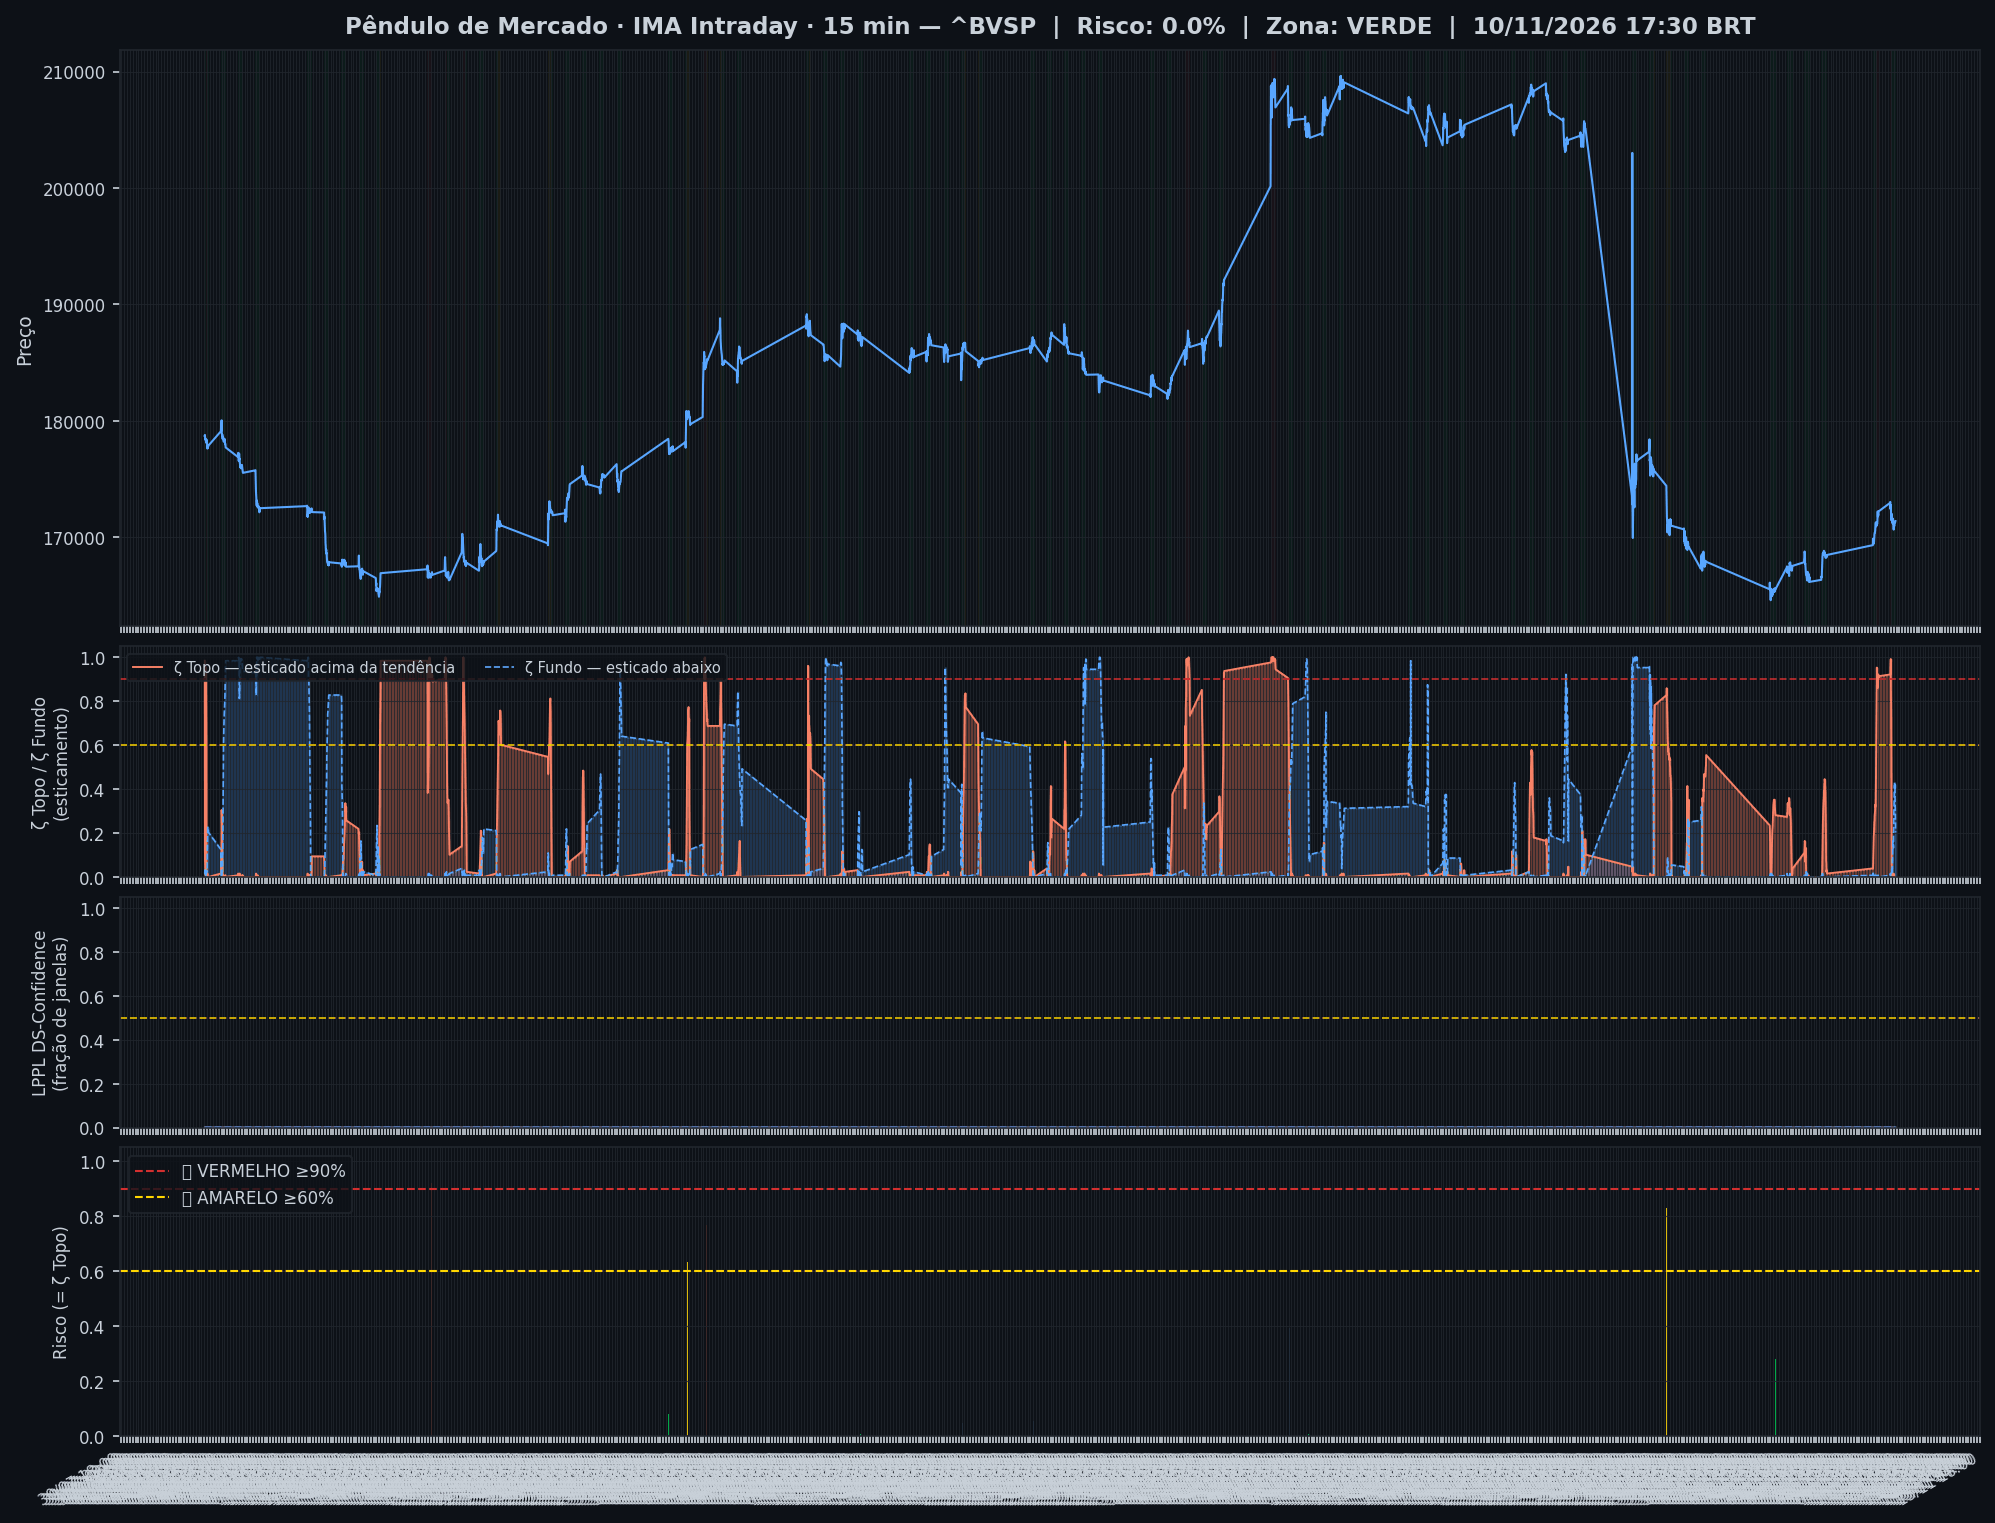
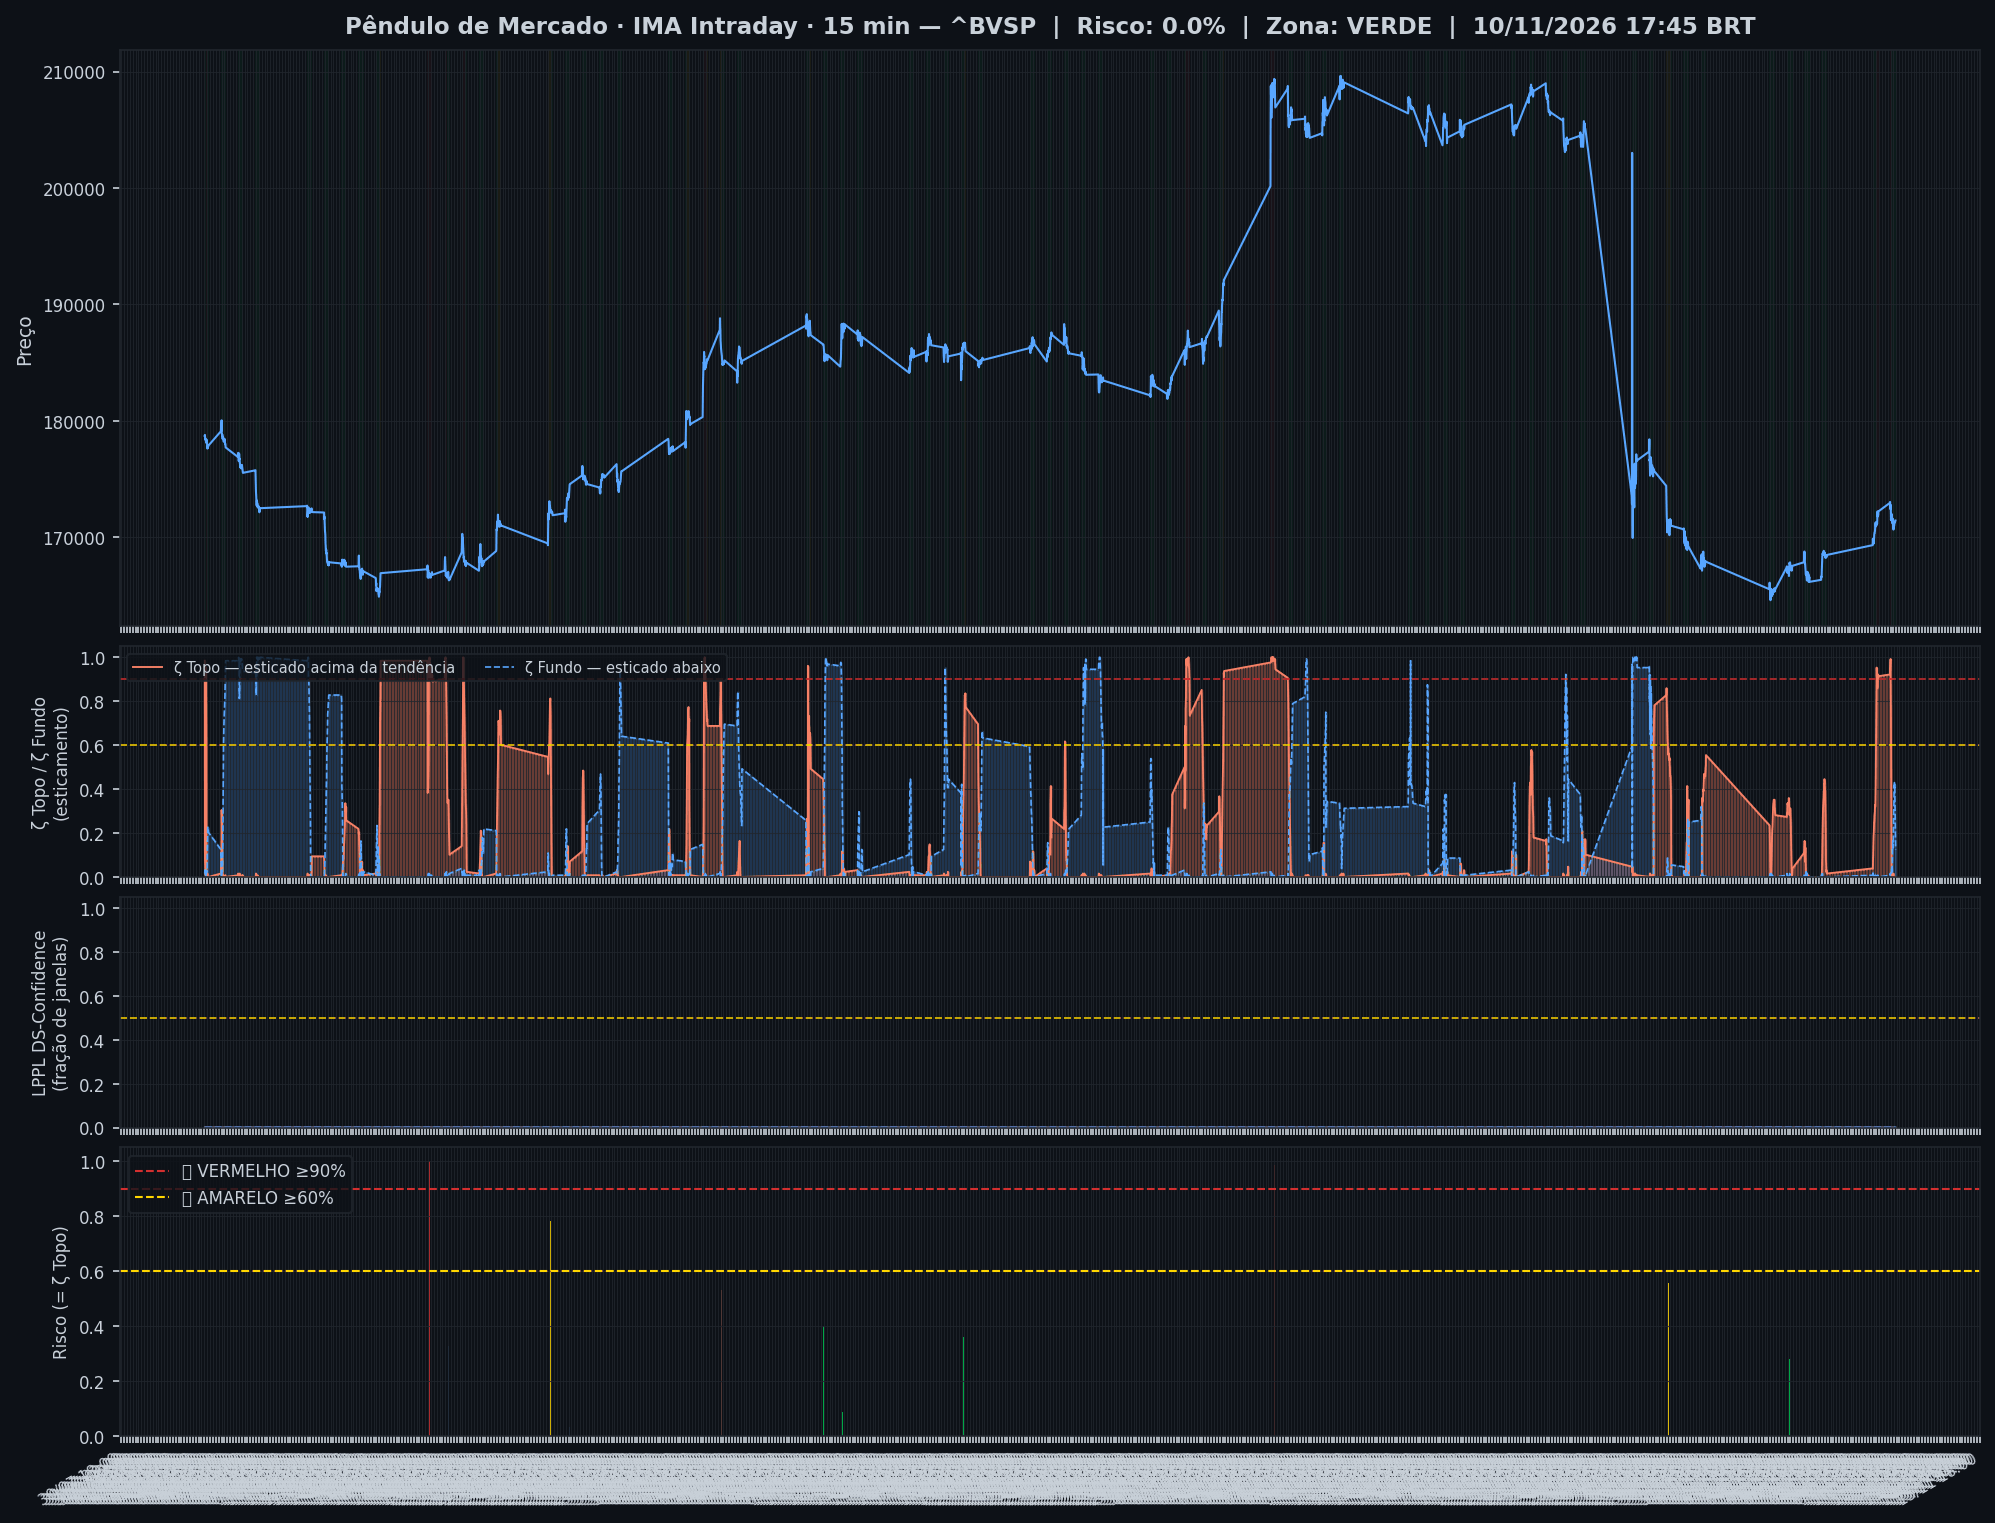
🤖 Auto: Sinal 10/11/2026 18:01

Changed region(s): [[0.7769, 0.4629, 0.8702, 0.5863], [0.9323, 0.5246, 0.9634, 0.5555]]

diff --git a/content/intraday/2026-11-10.md b/content/intraday/2026-11-10.md
@@ -1,11 +1,11 @@
 ---
-title: "🟢 Intraday 10/11/2026 17:30 BRT — VERDE"
+title: "🟢 Intraday 10/11/2026 17:45 BRT — VERDE"
 date: 2026-11-10
 tags: [intraday]
 ---
 
-> [!success] Onde o mercado está agora (10/11 17:30, candles de 15 min): **🟢 Calmo**
-> `Pânico ◀────────●────────────▶ Euforia`
+> [!success] Onde o mercado está agora (10/11 17:45, candles de 15 min): **🟢 Calmo**
+> `Pânico ◀─────────●───────────▶ Euforia`
 >
 > O Ibovespa está dentro da sua faixa normal, sem excesso para cima nem para baixo.
 > No gráfico diário: 🔪 Queda forte em curso.
@@ -20,7 +20,7 @@ tags: [intraday]
 > | 📍 **Sinais** | hoje: nenhum sinal | [abrir](sinais-topo-fundo/) |
 > | 🧪 **Placar ao vivo** | 1 operação(ões), 0 com lucro, soma -0,8% | [abrir](operacoes/) |
 
-> [!success] IMA Intraday · 15 min (10/11 17:30): 🟢 **VERDE** — Risco 0% · ＝ +0 p.p. vs leitura anterior
+> [!success] IMA Intraday · 15 min (10/11 17:45): 🟢 **VERDE** — Risco 0% · ＝ +0 p.p. vs leitura anterior
 > `░░░░░░░░░░░░░░░░░░░░`
 > Preço na faixa normal em torno da tendência.
 
@@ -32,13 +32,13 @@ tags: [intraday]
 >
 > *Leitura educacional baseada em 26 anos de dados, não recomendação. [Como usar](../metodologia/crise#3-como-usar-na-prática).*
 
-| Indicador — IMA Intraday · 15 min (10/11 17:30) | Valor |
+| Indicador — IMA Intraday · 15 min (10/11 17:45) | Valor |
 |---|---|
 | 🔴 ζ Topo — preço esticado acima da tendência | **0%** |
-| 🔵 ζ Fundo — preço esticado abaixo da tendência | 20% |
+| 🔵 ζ Fundo — preço esticado abaixo da tendência | 12% |
 | 🫧 LPPL bolha — alta super-exponencial (risco de crash) | 0% |
 | 🫧 LPPL antibolha — queda super-exponencial (risco de repique) | 0% |
-| 📊 Ibovespa | 171.405 pts |
+| 📊 Ibovespa | 171.454 pts |
 
 ![Gráfico do sinal](../graficos/sinal_intraday.png)
 
@@ -46,6 +46,7 @@ tags: [intraday]
 
 | Data | Zona | Evento | Risco | ζ Topo | ζ Fundo | LPPL |
 |---|---|---|---|---|---|---|
+| 2026-11-10 17:45 | 🟢 VERDE |  | **0%** | 0% | 12% | 0% |
 | 2026-11-10 17:30 | 🟢 VERDE |  | **0%** | 0% | 20% | 0% |
 | 2026-11-10 17:15 | 🟢 VERDE |  | **0%** | 0% | 25% | 0% |
 | 2026-11-10 17:00 | 🟢 VERDE |  | **0%** | 0% | 30% | 0% |
@@ -75,7 +76,6 @@ tags: [intraday]
 | 2026-11-10 11:00 | 🔴 VERMELHO |  | 🟡 **88%** | 🟡 **88%** | 0% | 0% |
 | 2026-11-10 10:45 | 🔴 VERMELHO |  | 🔴 **99%** | 🔴 **99%** | 0% | 0% |
 | 2026-11-10 10:30 | 🔴 VERMELHO |  | 🔴 **98%** | 🔴 **98%** | 1% | 0% |
-| 2026-11-10 10:15 | 🔴 VERMELHO |  | 🔴 **96%** | 🔴 **96%** | 2% | 0% |
 
 <small>Destaques: 🟡 ≥ 60% · 🔴 ≥ 90% (Risco e ζ Topo) · 🔵 ≥ 60% · 🔪 ≥ 90% (ζ Fundo) · 🫧 ≥ 30% · 🫧🔴 ≥ 50% (LPPL)</small>
 
@@ -89,36 +89,36 @@ tags: [intraday]
 | Zona | Ativo | Setor | ζ Topo | ζ Fundo |
 |---|---|---|---|---|
 | 🔴 | **EMBRAER** | Outros | 🟡 **84.4%** | 0.0% |
-| 🟢 | **WEG** | Industrial | 45.3% | 0.0% |
-| 🟢 | **AMBEV S/A** | Consumo | 0.0% | 43.8% |
-| 🟢 | **SUZANO S.A.** | Papel/Celulose | 0.0% | 37.5% |
-| 🟢 | **PETROBRAS** | Petróleo | 30.5% | 0.0% |
-| 🟢 | **GERDAU** | Siderurgia | 28.1% | 0.0% |
-| 🟢 | **PRIO** | Petróleo | 20.3% | 0.0% |
-| 🟢 | **ITAUSA** | Financeiro | 0.0% | 18.8% |
-| 🟢 | **BRADESCO** | Financeiro | 0.0% | 18.0% |
-| 🟢 | **B3** | Financeiro | 0.0% | 18.0% |
-| 🟢 | **BRASIL** | Financeiro | 16.4% | 0.0% |
-| 🟢 | **EQUATORIAL** | Energia | 0.0% | 10.9% |
-| 🟢 | **PETROBRAS** | Petróleo | 10.2% | 0.0% |
+| 🟢 | **WEG** | Industrial | 46.1% | 0.0% |
+| 🟢 | **AMBEV S/A** | Consumo | 0.0% | 40.6% |
+| 🟢 | **SUZANO S.A.** | Papel/Celulose | 0.0% | 32.8% |
+| 🟢 | **PETROBRAS** | Petróleo | 32.0% | 0.8% |
+| 🟢 | **PRIO** | Petróleo | 25.0% | 0.0% |
+| 🟢 | **BRASIL** | Financeiro | 20.3% | 0.0% |
+| 🟢 | **GERDAU** | Siderurgia | 20.3% | 0.0% |
+| 🟢 | **B3** | Financeiro | 0.0% | 14.8% |
+| 🟢 | **ITAUSA** | Financeiro | 0.0% | 14.1% |
+| 🟢 | **PETROBRAS** | Petróleo | 10.9% | 0.0% |
+| 🟢 | **EQUATORIAL** | Energia | 0.0% | 9.4% |
 | 🟢 | **ULTRAPAR** | Outros | 9.4% | 0.0% |
-| 🟢 | **REDE D OR** | Saúde | 3.9% | 0.0% |
-| 🟢 | **ITAUUNIBANCO** | Financeiro | 0.0% | 2.3% |
-| 🟢 | **AXIA ENERGIA** | Energia | 2.3% | 0.0% |
-| 🟢 | **COPEL** | Energia | 2.3% | 0.0% |
+| 🟢 | **BRADESCO** | Financeiro | 0.0% | 6.2% |
+| 🟢 | **REDE D OR** | Saúde | 6.2% | 0.0% |
+| 🟢 | **AXIA ENERGIA** | Energia | 3.1% | 0.0% |
+| 🟢 | **BTGP BANCO** | Financeiro | 0.0% | 3.1% |
 | 🟢 | **VALE** | Mineração | 0.0% | 1.6% |
-| 🟢 | **BTGP BANCO** | Financeiro | 0.0% | 1.6% |
+| 🟢 | **ITAUUNIBANCO** | Financeiro | 0.0% | 0.8% |
+| 🟢 | **ENEVA** | Energia | 0.0% | 0.8% |
+| 🟢 | **COPEL** | Energia | 0.8% | 0.0% |
+| 🟢 | **LOCALIZA** | Aluguel | 0.0% | 0.8% |
 | 🟢 | **SABESP** | Saneamento | 0.0% | 0.0% |
-| 🟢 | **ENEVA** | Energia | 0.0% | 0.0% |
 | 🟢 | **VIBRA** | Energia | 0.0% | 0.0% |
-| 🟢 | **LOCALIZA** | Aluguel | 0.0% | 0.0% |
 | 🟢 | **USD/BRL** | Câmbio | 0.0% | 0.0% |
 
 <small>Destaques: 🟡 ≥ 60% · 🔴 ≥ 90% (Risco e ζ Topo) · 🔵 ≥ 60% · 🔪 ≥ 90% (ζ Fundo) · 🫧 ≥ 30% · 🫧🔴 ≥ 50% (LPPL)</small>
 
 ![Monitor multi-ativo](../graficos/multi_intraday.png)
 
-*Página atualizada em 10/11/2026 17:46 BRT (leitura da barra de 2026-11-10 17:30 BRT).*
+*Página atualizada em 10/11/2026 18:01 BRT (leitura da barra de 2026-11-10 17:45 BRT).*
 
 > [!warning] O que este indicador não faz
 > Medido em 5 anos de Ibovespa, o ζ **não antecipa** topos nem fundos: a capacidade de separar o que sobe do que cai ficou em 0,49–0,52, e 0,50 é moeda jogada ao ar. Ele descreve o estado de agora; não é aviso do que vem. As zonas verde/amarelo/vermelho continuam na página como descrição desse estado — **não as use como sinal de entrada ou saída**.

diff --git a/content/index.md b/content/index.md
@@ -6,10 +6,10 @@ tags: [home]
 
 **As ondas do mercado, explicadas.** Leitura do Ibovespa com estatística de 26 anos, baseada no trabalho de pesquisadores e traders reconhecidos e adaptada por Jarbas Daniel da Costa.
 
-*Última atualização: 10/11/2026 17:46 BRT · Intraday 15min*
+*Última atualização: 10/11/2026 18:01 BRT · Intraday 15min*
 
-> [!success] Onde o mercado está agora (10/11 17:30, candles de 15 min): **🟢 Calmo**
-> `Pânico ◀────────●────────────▶ Euforia`
+> [!success] Onde o mercado está agora (10/11 17:45, candles de 15 min): **🟢 Calmo**
+> `Pânico ◀─────────●───────────▶ Euforia`
 >
 > O Ibovespa está dentro da sua faixa normal, sem excesso para cima nem para baixo.
 > No gráfico diário: 🔪 Queda forte em curso.
@@ -44,18 +44,18 @@ tags: [home]
 > *Leitura educacional baseada em 26 anos de dados, não recomendação. [Como usar](metodologia/crise#3-como-usar-na-prática).*
 
 > [!info]- 🌊 Detalhes do Sinal IMA (indicadores e últimos 7 pregões)
-> > [!success] IMA Intraday · 15 min (10/11 17:30): 🟢 **VERDE** — Risco 0% · ＝ +0 p.p. vs leitura anterior
+> > [!success] IMA Intraday · 15 min (10/11 17:45): 🟢 **VERDE** — Risco 0% · ＝ +0 p.p. vs leitura anterior
 > > `░░░░░░░░░░░░░░░░░░░░`
 > > Preço na faixa normal em torno da tendência.
 >
 >
-> | Indicador — IMA Intraday · 15 min (10/11 17:30) | Valor |
+> | Indicador — IMA Intraday · 15 min (10/11 17:45) | Valor |
 > |---|---|
 > | 🔴 ζ Topo — preço esticado acima da tendência | **0%** |
-> | 🔵 ζ Fundo — preço esticado abaixo da tendência | 20% |
+> | 🔵 ζ Fundo — preço esticado abaixo da tendência | 12% |
 > | 🫧 LPPL bolha — alta super-exponencial (risco de crash) | 0% |
 > | 🫧 LPPL antibolha — queda super-exponencial (risco de repique) | 0% |
-> | 📊 Ibovespa | 171.405 pts |
+> | 📊 Ibovespa | 171.454 pts |
 >
 > **Multi-ativo:** 4% em tensão (1🔴 0🟡 de 25 ativos)
 >
@@ -63,7 +63,7 @@ tags: [home]
 >
 > | Data | Zona | Risco | ζ Topo | ζ Fundo | LPPL |
 > |---|---|---|---|---|---|
-> | [10/11/2026](intraday/2026-11-10) | 🟢 VERDE | **0%** | 0% | 20% | 0% |
+> | [10/11/2026](intraday/2026-11-10) | 🟢 VERDE | **0%** | 0% | 12% | 0% |
 >
 > <small>Destaques: 🟡 ≥ 60% · 🔴 ≥ 90% (Risco e ζ Topo) · 🔵 ≥ 60% · 🔪 ≥ 90% (ζ Fundo) · 🫧 ≥ 30% · 🫧🔴 ≥ 50% (LPPL)</small>
 >

diff --git a/content/operacoes/entradas.md b/content/operacoes/entradas.md
@@ -31,7 +31,7 @@ description: "Compra depois de um sinal de fundo: Nadaraya no diário, semáforo
 > | Diário · Semáforo N3 após ζ Fundo | 07/07/26 a 172.021 | 10/08/26 a 172.021 | **+0,0%** | stop no preço de entrada |
 > | H4 · Semáforo N2 | 12/06/26 14h a 171.134 | 15/06/26 14h a 171.134 | **+0,0%** | stop no preço de entrada |
 >
-> <small>Atualizado 09/11 19:00 · checado no pregão às 17:45. Nota: ✅ passou no teste fora da amostra (walk-forward 2008–2026) · 🧪 em teste (H4, com aviso no Telegram) ou em observação (ζ, sem aviso) · 🧪 na tabela = operação do teste ao vivo.</small>
+> <small>Atualizado 09/11 19:00 · checado no pregão às 18:00. Nota: ✅ passou no teste fora da amostra (walk-forward 2008–2026) · 🧪 em teste (H4, com aviso no Telegram) ou em observação (ζ, sem aviso) · 🧪 na tabela = operação do teste ao vivo.</small>
 >
 > *Regras: depois de um sinal de fundo, o Diário entra quando o Nadaraya vira para cima; o Semanal e o H4 entram quando um fundo do semáforo fica fixo. Stop e saída de cada regra na [metodologia](metodologia/regras-de-operacao#entradas-do-método). Nenhuma regra de venda passou no teste. Os números do histórico têm viés de escolha (overfitting); o placar ao vivo é o que vale. Leitura educacional do método, não recomendação.*
 

diff --git a/content/historico.md b/content/historico.md
@@ -5,7 +5,7 @@ tags: [historico]
 
 # 📜 Histórico de leituras (v5)
 
-**2.275 leituras** desde 2026-07-03. Na página ficam os últimos 3 dias leitura por leitura e o resumo de cada dia anterior; o registro inteiro está no arquivo para baixar.
+**2.276 leituras** desde 2026-07-03. Na página ficam os últimos 3 dias leitura por leitura e o resumo de cada dia anterior; o registro inteiro está no arquivo para baixar.
 
 [**Baixar o histórico completo**](historico-completo.csv) (100 KB · abre no Excel e no LibreOffice)
 
@@ -16,6 +16,7 @@ tags: [historico]
 
 | Data | Modo | Zona | Risco | IMA | LPPL |
 |---|---|---|---|---|---|
+| 2026-11-10 17:45 | intraday | 🟢 VERDE | 0% | 0% | 0% |
 | 2026-11-10 17:30 | intraday | 🟢 VERDE | 0% | 0% | 0% |
 | 2026-11-10 17:15 | intraday | 🟢 VERDE | 0% | 0% | 0% |
 | 2026-11-10 17:00 | intraday | 🟢 VERDE | 0% | 0% | 0% |

diff --git a/content/operacoes/ranking.md b/content/operacoes/ranking.md
@@ -5,7 +5,7 @@ tags: [operacoes]
 description: "As regras de compra do site ordenadas pelo resultado, com treino, teste e placar ao vivo"
 ---
 
-*Atualizado 10/11/2026 17:46 · histórico simulado com as regras congeladas em 23/10/2026 + placar ao vivo.*
+*Atualizado 10/11/2026 18:01 · histórico simulado com as regras congeladas em 23/10/2026 + placar ao vivo.*
 
 As regras de compra do site, **da que mais rendeu para a que menos rendeu**. O resultado é por operação, no índice à vista, sem custos e sem juros compostos (a soma é só a soma das operações). **Treino** = entradas de 2001 a 2013 e **teste** = 2014 em diante: uma regra só é confiável se ganhou nos dois. O único resultado sem nenhum ajuste ao histórico é o **placar ao vivo**.
 

diff --git a/content/linha-do-tempo/index.md b/content/linha-do-tempo/index.md
@@ -5,7 +5,7 @@ description: "Todo sinal, ordem, stop e aviso do Pêndulo de Mercado, do mais re
 tags: [eventos]
 ---
 
-*Atualizada 10/11/2026 17:46 BRT · a cada 15 min no pregão e às 19h.*
+*Atualizada 10/11/2026 18:01 BRT · a cada 15 min no pregão e às 19h.*
 
 Tudo o que o sistema fez ou detectou, **do mais recente para o mais antigo**: sinais de topo e fundo, ordens de compra e de venda armadas, compras, vendas, stops, avisos de 🚨 preço perto do nível e mudanças do Sinal IMA. Os **últimos 7 dias** ficam abertos; o resto, por **ano → mês → dia**.
 
